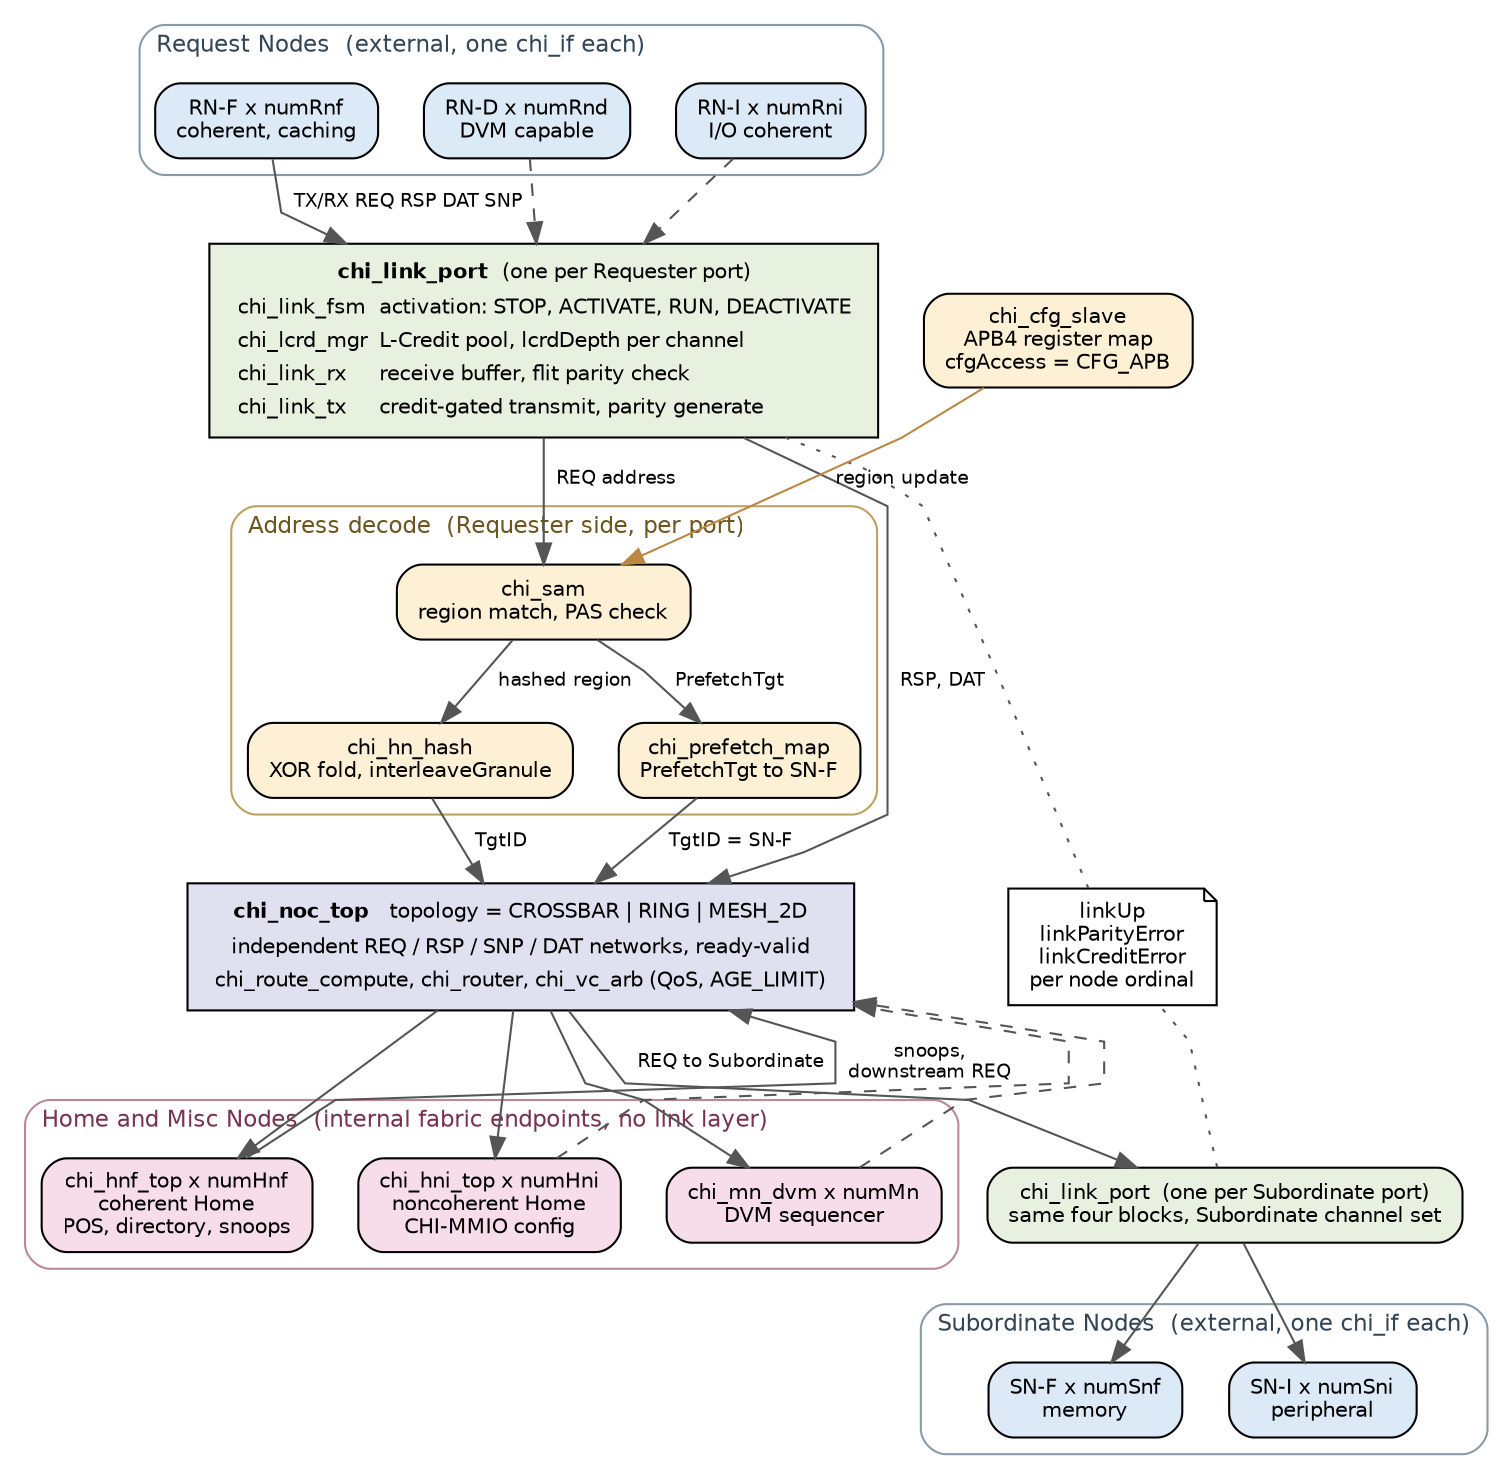
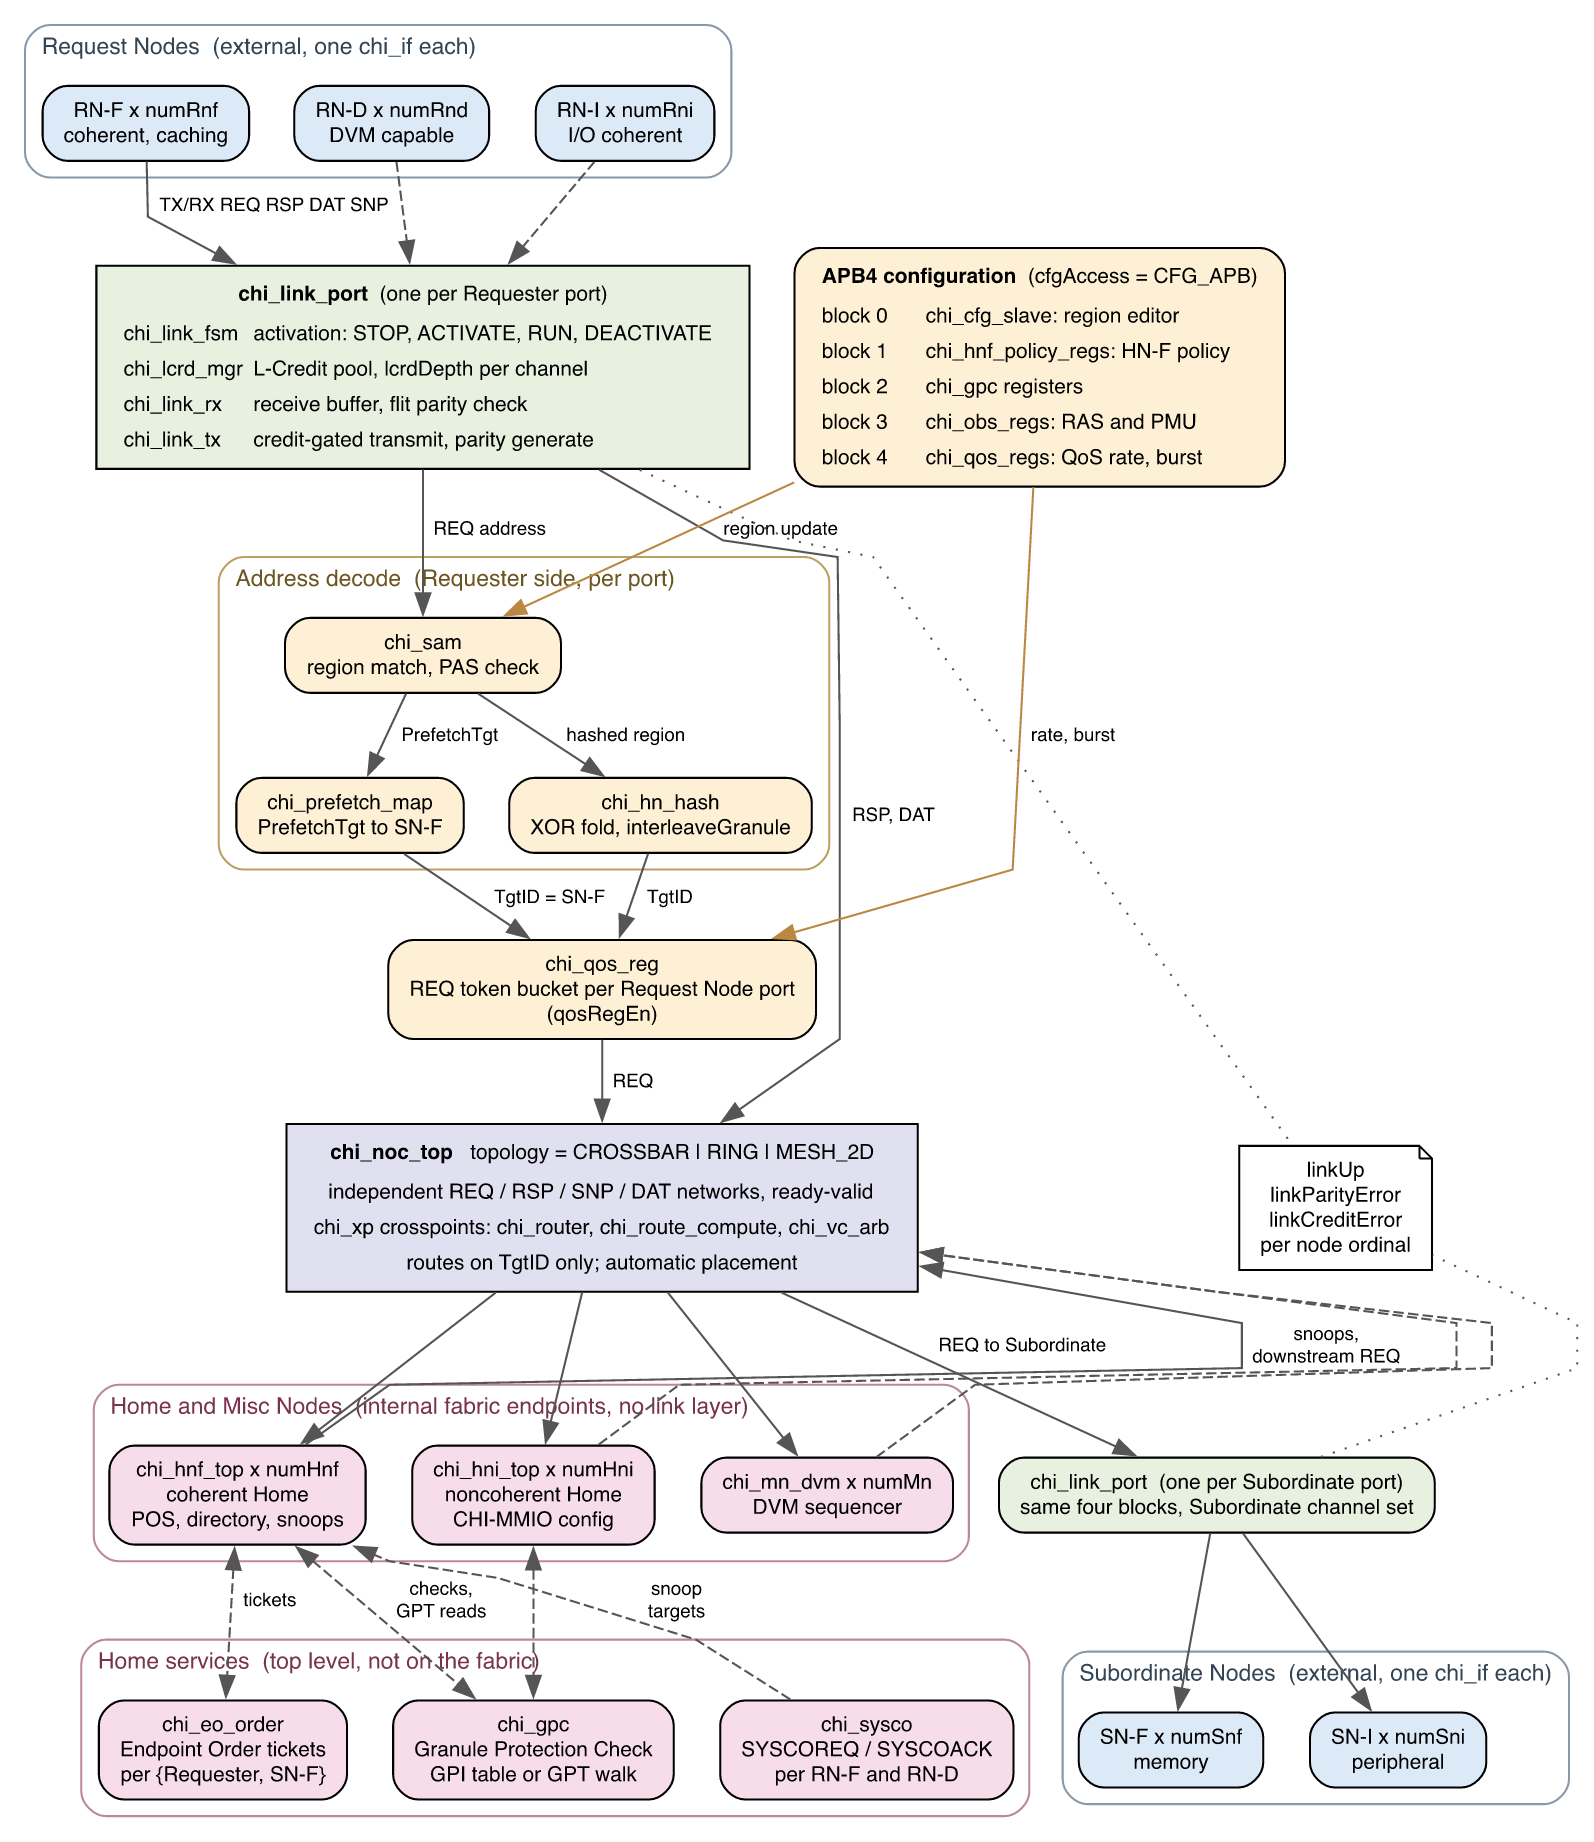
stage 11c: figures for the current design, regeneration notes
Both figures now show the current design.

Architecture figure adds:
- the QoS regulator on the REQ injection path;
- the five APB blocks;
- the Home services that are not fabric endpoints: chi_gpc, chi_eo_order
  and chi_sysco.

HN-F figure adds:
- the SLC: lookup, read and update ports, and dirty eviction into the
  victim buffer;
- the GPC check at allocation, with GPT reads on the reserved tracker;
- Endpoint Order tickets.

The PNGs were rendered at 150 dpi with Graphviz 16.1.0 compiled to
WebAssembly and rasterized by resvg, because no native Graphviz was
available. Section 12.9 and the README say so.

The Word document in docs/ is not rebuilt yet: no runnable pandoc was
available. The README and Section 12.9 say it still shows main.

Two stale statements are fixed:
- the regeneration command is in Section 12.9, not 12.7;
- lint passed on main and has not been rerun on this branch.

Changed region(s): [[0.0, 0.0, 0.9947, 0.9953]]

diff --git a/doc-src/chi_interconnect_design_spec.md b/doc-src/chi_interconnect_design_spec.md
@@ -33,7 +33,7 @@ behaviour below was checked against the source, and the feature matrix in
 Section 1.3 states exactly where each function stops.
 
 The document is generated from a single Markdown source in `doc-src/` so that
-the Word file in `docs/` and the RTL never drift apart. See Section 12.7 for
+the Word file in `docs/` and the RTL never drift apart. See Section 12.9 for
 the regeneration command.
 
 # 1 Scope, Issue H baseline, and feature status
@@ -547,7 +547,8 @@ structured so that a linter can see both:
    to depend on every crosspoint valid.
 
 The consequence is that the whole fabric elaborates with no circular
-combinational logic, which Section 12.6 records as a passing lint result.
+combinational logic. Section 12.6 records that lint passed on `main` and has
+not yet been rerun on this branch.
 
 # 3 Parameters and elaboration constraints
 
@@ -2821,10 +2822,7 @@ be expected to find defects this flow cannot see.
 ## 12.9 Regenerating this document
 
 
-The Word file in `docs/` is generated from `doc-src/`. On this branch it
-has not been regenerated: the authoring environment had neither pandoc nor
-Graphviz, so the Markdown and `.dot` sources are current and the committed
-`.docx` and `.png` files still show `main`. Run:
+The Word file in `docs/` is generated from `doc-src/`. Run:
 
 ```sh
 make doc
@@ -2834,8 +2832,18 @@ which runs:
 
 ```sh
 pandoc doc-src/chi_interconnect_design_spec.md --toc --toc-depth=2 \
-  -o docs/chi_interconnect_design_spec.docx
+  --lua-filter=doc-src/house_style.lua \
+  --reference-doc=doc-src/reference.docx \
+  --resource-path=doc-src -o docs/chi_interconnect_design_spec.docx
 ```
+
+`make figures` rebuilds the figure `.png` files from their Graphviz `.dot`
+sources at 150 dpi. On this branch the figures were rendered with Graphviz
+16.1.0 compiled to WebAssembly and rasterized by resvg, because the authoring
+environment had no native Graphviz. A native `dot` lays out the same graphs
+but may route edges and set text slightly differently. The `.docx` in
+`docs/` has not been rebuilt on this branch and still shows `main`: run
+`make doc`.
 
 Section numbers are written into the headings rather than generated, so that
 the cross-references in the prose stay correct in every output format.

diff --git a/README.md b/README.md
@@ -7,8 +7,9 @@ die-to-die transports are outside scope.
 
 > **Branch status (`feature/chi-fabric-upgrade`).** The upgrade stages on this
 > branch were written without a compiler: they have not yet been linted,
-> elaborated or simulated, and the generated Word document and figures still
-> show `main`. Run `make xcelium` or `make lint` first. Section 1.3 of the
+> elaborated or simulated. Run `make xcelium` or `make lint` first. The
+> Markdown source and figures are current, but the Word document in `docs/`
+> still shows `main` until `make doc` is run. Section 1.3 of the
 > design specification lists what remains not implemented or deferred.
 
 The RTL covers configurable Issue H flit records, three selectable internal
@@ -56,11 +57,13 @@ the RTL cannot drift apart:
 make doc
 ```
 
-Regeneration needs `pandoc` and `python3`; on this branch the `.docx` has not
-been regenerated yet. The architecture diagrams are
+Regeneration needs `pandoc` and `python3`. The architecture diagrams are
 generated from Graphviz sources in [`doc-src/figures/`](doc-src/figures);
 `make figures` rebuilds the `.png` files and needs `dot`. The rendered images
-are committed so `make doc` works without Graphviz installed.
+are committed so `make doc` works without Graphviz installed. On this branch
+the figures were rendered with Graphviz 16.1.0 compiled to WebAssembly (no
+native Graphviz was available), so a native `make figures` may route edges
+slightly differently.
 
 Word styling comes from `doc-src/reference.docx`, which
 [`doc-src/build_reference_docx.py`](doc-src/build_reference_docx.py) builds
